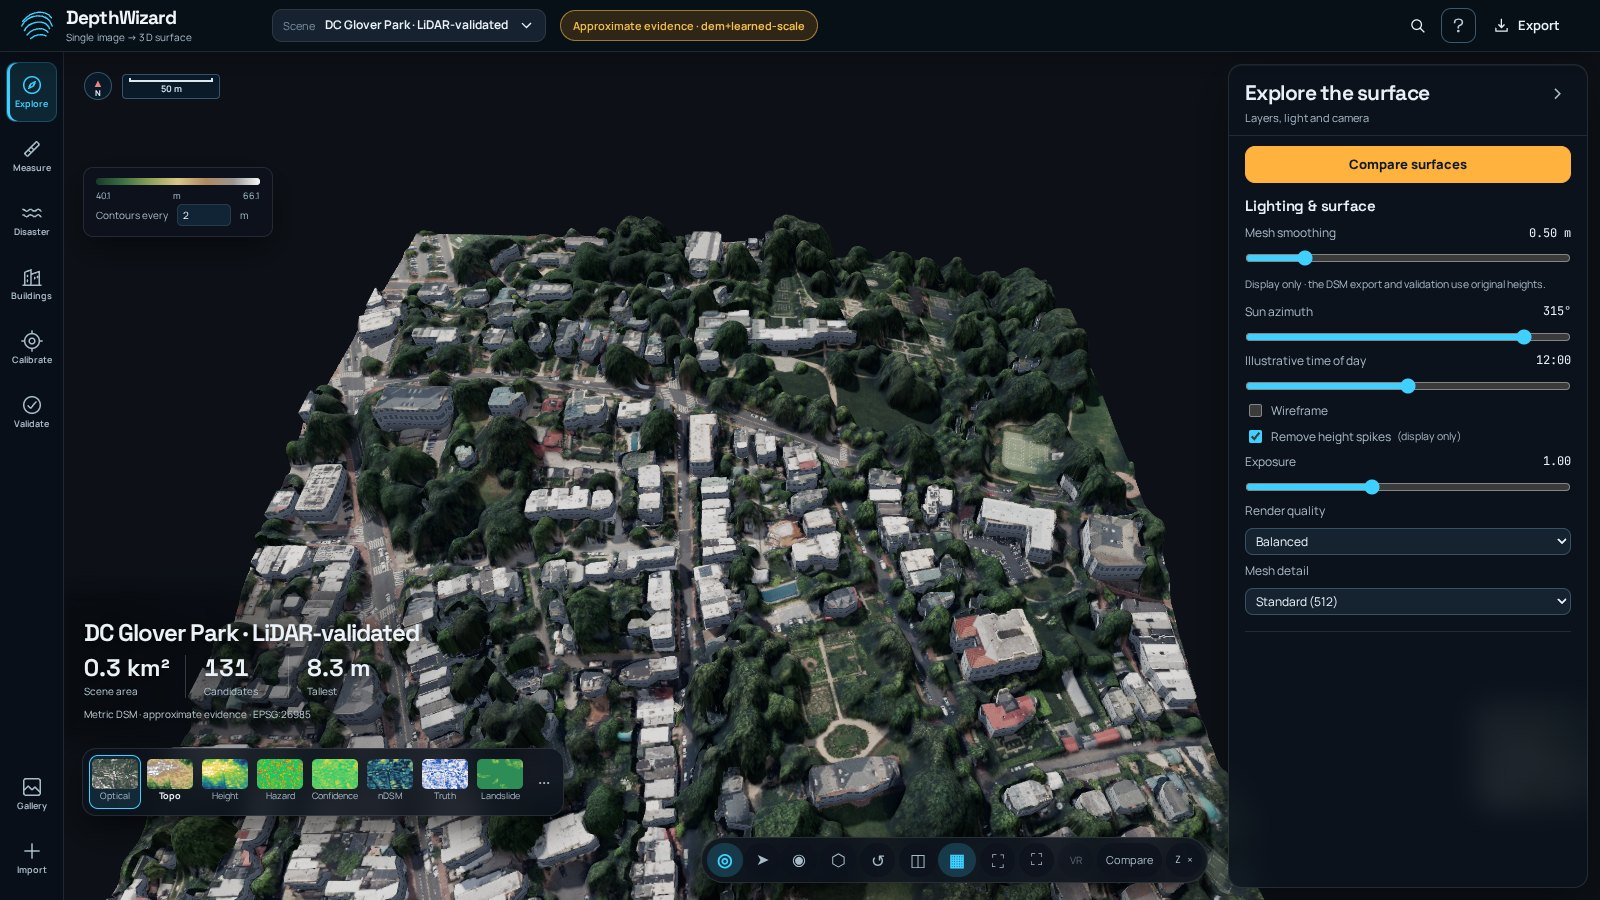
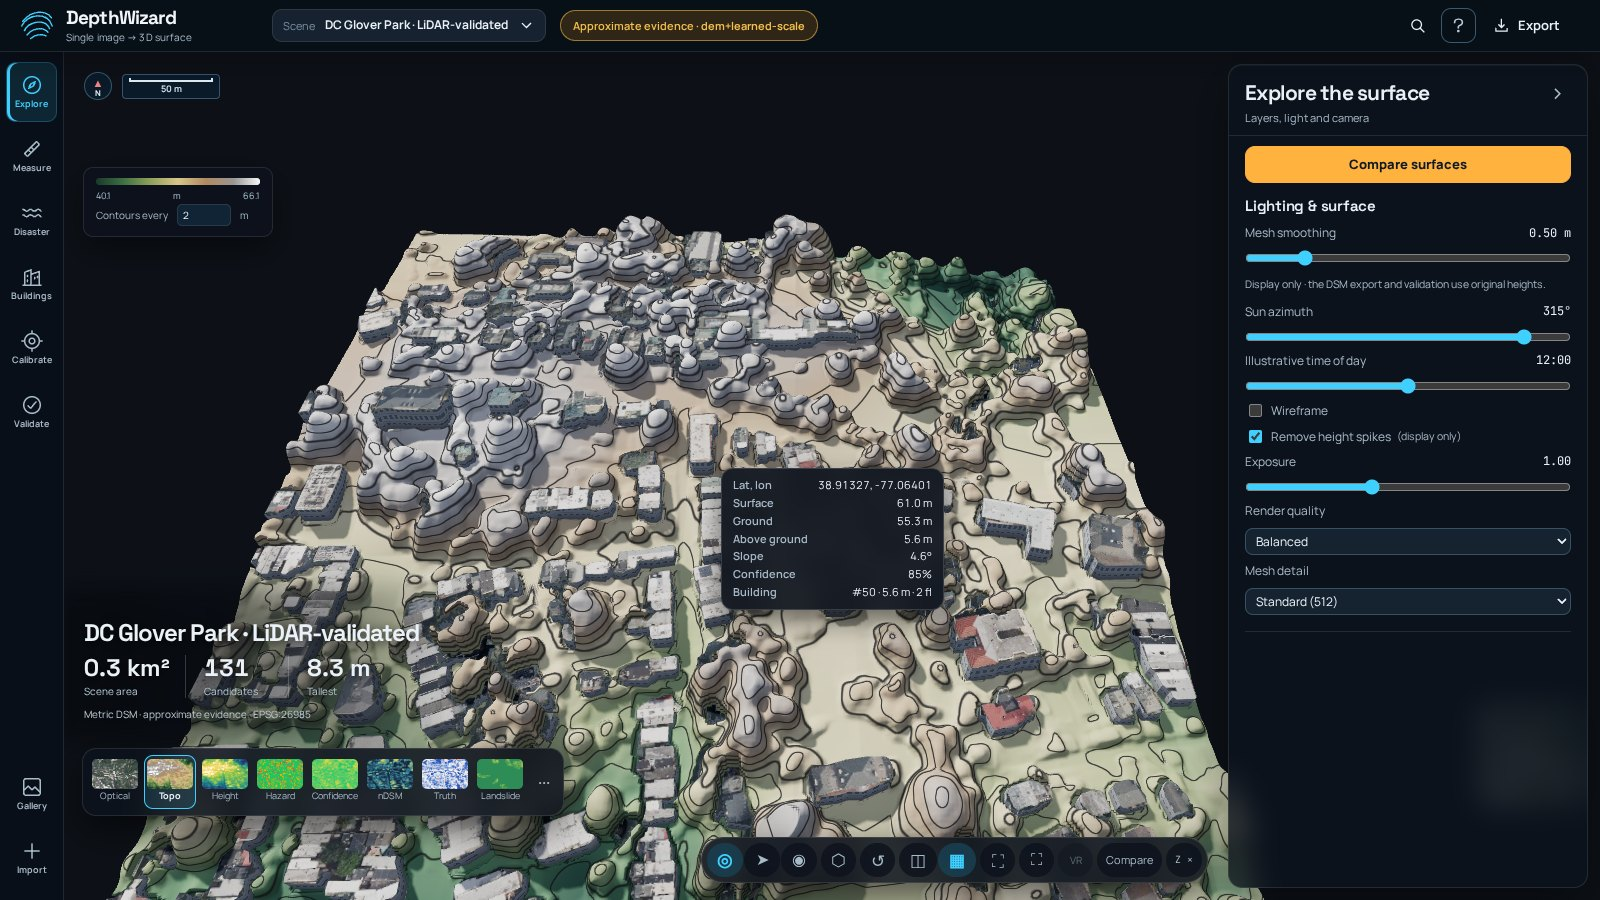
README: live demo link, test and validation files, fixed Topo screenshot

Changed region(s): [[0.0312, 0.2178, 0.8125, 1.0]]

diff --git a/README.md b/README.md
@@ -15,6 +15,26 @@ GAMUS DC training tiles. The older six-scene **5.04 m RMSE** aggregate includes
 reference-derived simulated DEM inputs and same-survey forest DEMs; it is a
 mixed-evidence pipeline check, not an independent accuracy result.
 
+## Live demo
+
+**http://16.170.173.94/** – hosted on AWS EC2 (CPU only). The demo scenes in the gallery open instantly; a new upload takes a few minutes to process because the server has no GPU. Use plain `http://`.
+
+## Try it yourself – test and validation files
+
+Every file below is in this repository, so you can download it, upload it through **Import** (on the live demo or a local run) and check the result against the included reference. The **Reference DSM / LiDAR** file is used only for scoring; it never enters the height estimate.
+
+| # | What it tests | Satellite image | Low-resolution DEM | Reference (scoring only) | Settings | What to expect |
+|---|---|---|---|---|---|---|
+| 1 | Urban scene, blind LiDAR check | `samples/dc_lidar/glover_park/rgb.tif` | `samples/dc_lidar/glover_park/dtm_2018_32m.tif` | `samples/dc_lidar/glover_park/lidar_dsm_2024.tif` | GAMUS model, scene prior *urban* | ~6.2 m RMSE vs ~10.1 m for the DEM alone (Validate panel) |
+| 2 | Surface-DEM calibration path | `samples/dc_lidar/capitol_hill_east/rgb.tif` | `samples/dc_lidar/capitol_hill_east/sim_cop30_surface.tif` | `samples/dc_lidar/capitol_hill_east/lidar_dsm_2024.tif` | GAMUS, *urban* | calibration method `dem-surface-fit`. The surface DEM is **simulated from the reference LiDAR**, so this checks the code path, not independent accuracy |
+| 3 | Change detection (simulated event) | `samples/dc_lidar/glover_park/rgb_post_simulated.tif` | `samples/dc_lidar/glover_park/dtm_2018_32m.tif` | – | GAMUS, *urban*; then **Disaster → Change detection**, pick the Glover Park scene as the before-event scene | height-loss patches where 12 roofs were removed from the image (the post-event image is **simulated**) |
+| 4 | Forest / vegetation | `samples/quesenbank/forest_south_rgb.tif` | `samples/quesenbank/forest_south_dem_30m.tif` | `samples/quesenbank/forest_south_reference_dsm.tif` | GAMUS, scene prior *forest* | canopy DSM with error scored against the UAV reference. Always pair *north* files with *north* and *south* with *south* |
+| 5 | Ground control points | `samples/synthetic/scene_rgb.tif` | `samples/synthetic/srtm_like.tif` | `samples/synthetic/truth_dsm.tif` | add `samples/synthetic/gcps.csv` as GCPs | calibration uses the GCP fit (synthetic scene with known truth) |
+| 6 | Plain PNG, no georeference | `samples/gamus/NYC_00735_rgb.png` | – | – | horizontal pixel size **0.33** | relative heights only, clearly labelled as not metric |
+| 7 | Existing elevation file | `samples/dc_lidar/glover_park/lidar_dsm_2024.tif` (as the image) | – | – | – | shown directly as *Input DEM (not estimated)*; no model runs |
+
+Tips: tick **Auto-download DEM** instead of giving a DEM file to fetch Copernicus/SRTM automatically (needs internet). A DEM must cover at least 90% of the image or the run stops with a clear message instead of guessing. On any scene, **Buildings → Known height → Add as anchor**, then **Calibrate → Scale Anchors → Apply**, rescales the whole scene from one supplied building height; if that height comes from the reference file, the result is no longer a blind test.
+
 ## Quick start
 
 ```bash
@@ -31,7 +51,7 @@ The first visit opens a gallery of demo scenes. Put the fine-tuned checkpoint in
 
 ## Gallery
 
-| **Buildings** – 131 fitted buildings with height, storeys, volume, solar; one known height recalibrates the city | **Topo** – hypsometric tint + index contours + hillshade |
+| **Buildings** – 131 fitted buildings with height, storeys, volume, estimated solar; supplied heights can recalibrate the scene | **Topo** – hypsometric tint + index contours + hillshade |
 |---|---|
 | ![buildings](docs/images/city.jpg) | ![topo](docs/images/topo.jpg) |
 | **Slope hazard** (true slope, 0–30° / 30–45° / >45°) | **Flood & response** – connected flood, buildings and people exposed, mission planning |
